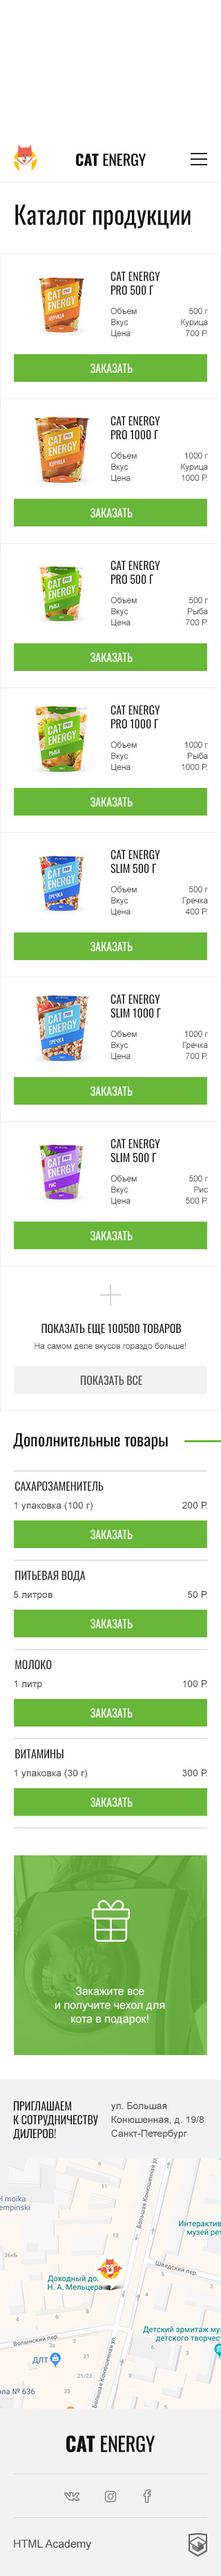
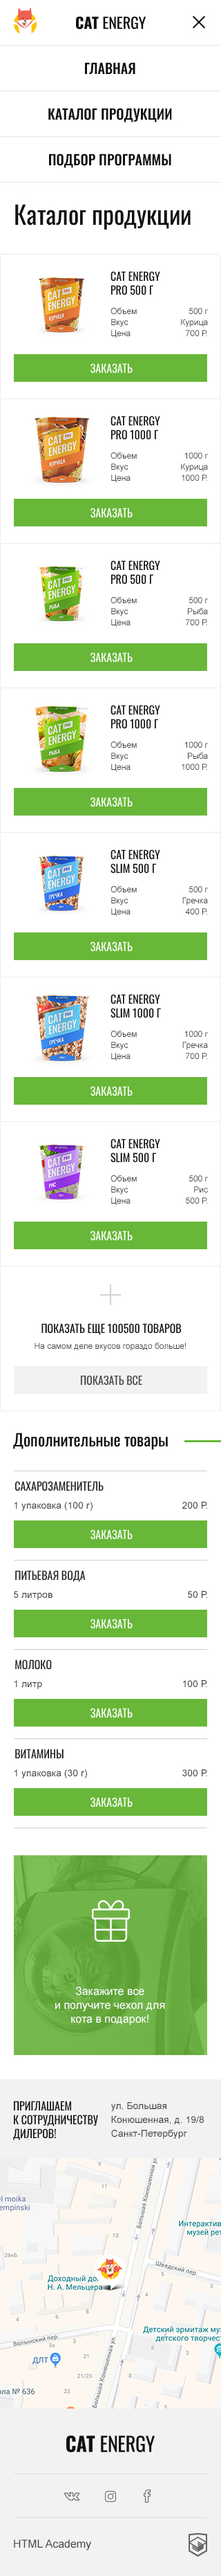
доделываем каталог планшет

Changed region(s): [[0.2188, 0.0, 0.7812, 0.0623], [0.0625, 0.0, 0.1562, 0.0934]]

diff --git a/source/catalog.html b/source/catalog.html
@@ -9,9 +9,7 @@
   </head>
   <body>
     <header class="page-header">
-      <a href="index.html" class="page-header__logo">
-        <img class="page-header__logo-image" src="img/logo-mobile.svg" width="190" height="38" alt="Логотип Cat Energy">
-      </a>
+      <a class="page-header__logo"></a>
       <nav class="main-nav main-nav--closed main-nav--nojs">
         <button class="main-nav__toggle" type="button"><span class="visually-hidden">Открыть меню</span></button>
         <ul class="main-nav__list">
@@ -31,7 +29,10 @@
       <h1>Каталог продукции</h1>
       <ul class="main-catalog__list">
         <li class="main-catalog__item product">
-          <img class="product__image product__image--pro-chicken500" src="../img/chicken-small-mobile@1x.jpg" width="140" height="144" alt="корм для котов">
+        <picture>
+          <source media="(min-width: 768px)" srcset="../img/chicken-small-tablet@1x.png">
+          <img class="product__image product__image--pro-chicken500" src="../img/chicken-small-mobile@1x.jpg" width="140" height="144"  alt="корм для котов">
+        </picture>
           <h3>cat energy pro 500 г</h3>
           <table class="product__table">
             <tr>
@@ -70,7 +71,10 @@
           <a href="order.html" class="product__link button">Заказать</a>
         </li>
         <li class="main-catalog__item product">
+        <picture>
+          <source media="(min-width: 768px)" srcset="../img/chicken-big-tablet@1x.png">
           <img class="product__image product__image--pro-chicken1000" src="../img/chicken-big-mobile@1x.jpg" width="140" height="144" alt="корм для котов">
+        </picture>
           <h3>cat energy pro 1000 г</h3>
           <table class="product__table">
             <tr>
@@ -109,7 +113,10 @@
           <a href="order.html" class="product__link button">Заказать</a>
         </li>
         <li class="main-catalog__item product">
+        <picture>
+          <source media="(min-width: 768px)" srcset="../img/fish-small-tablet@1x.png">
           <img class="product__image product__image--pro-fish500" src="../img/fish-small-mobile@1x.jpg" width="140" height="144" alt="корм для котов">
+        </picture>
           <h3>cat energy pro 500 г</h3>
           <table class="product__table">
             <tr>
@@ -148,7 +155,10 @@
           <a href="order.html" class="product__link button">Заказать</a>
         </li>
         <li class="main-catalog__item product">
+        <picture>
+          <source media="(min-width: 768px)" srcset="../img/fish-big-tablet@1x.png">
           <img class="product__image product__image--pro-fish1000" src="../img/fish-big-mobile@1x.jpg" width="140" height="144" alt="корм для котов">
+        </picture>
           <h3>cat energy pro 1000 г</h3>
           <table class="product__table">
             <tr>
@@ -187,7 +197,10 @@
           <a href="order.html" class="product__link button">Заказать</a>
         </li>
         <li class="main-catalog__item product">
+        <picture>
+          <source media="(min-width: 768px)" srcset="../img/buckwheat-small-tablet@1x.png">
           <img class="product__image product__image--slim-buckwheat500" src="../img/buckwheat-small-mobile@1x.jpg" width="140" height="144" alt="корм для котов">
+        </picture>
           <h3>cat energy slim 500 г</h3>
           <table class="product__table">
             <tr>
@@ -226,7 +239,10 @@
           <a href="order.html" class="product__link button">Заказать</a>
         </li>
         <li class="main-catalog__item product">
+        <picture>
+          <source media="(min-width: 768px)" srcset="../img/buckwheat-big-tablet@1x.png">
           <img class="product__image product__image--slim-buckwheat1000" src="../img/buckwheat-big-mobile@1x.jpg" width="140" height="144" alt="корм для котов">
+        </picture>
           <h3>cat energy slim 1000 г</h3>
           <table class="product__table">
             <tr>
@@ -265,6 +281,8 @@
           <a href="order.html" class="product__link button">Заказать</a>
         </li>
         <li class="main-catalog__item product">
+        <picture>
+          <source media="(min-width: 768px)" srcset="../img/rice-small-tablet@1x.png">
           <img class="product__image product__image--slim-rice500" src="../img/rice-small-mobile@1x.jpg" width="140" height="144" alt="корм для котов">
           <h3>cat energy slim 500 г</h3>
           <table class="product__table">

diff --git a/source/less/product.less b/source/less/product.less
@@ -10,7 +10,8 @@
   width: 323px;
   height: 429px;
   outline: 1px solid black;
-  margin-bottom: 140px;
+  margin-bottom: 142px;
+  position: relative;
   }
   .product:nth-child(7) {
   margin-bottom: 0;
@@ -27,15 +28,56 @@
   }
 }
 .product__image {
-  margin: 0;
-  padding: 0;
   outline: 1px solid red;
-  content: "";
   position: absolute;
   top: 0;
   left: 0;
-
 }
+
+@media (min-width: @tablet-width) {
+  .product__image--pro-chicken500 {
+    top: -47px;
+    width: 324px;
+    height: 172px;
+  }
+
+  .product__image--pro-chicken1000 {
+    top: -82px;
+    width: 324px;
+    height: 208px;
+  }
+
+  .product__image--pro-fish500 {
+    top: -47px;
+    width: 324px;
+    height: 174px;
+  }
+
+  .product__image--pro-fish1000 {
+    top: -82px;
+    width: 324px;
+    height: 208px;
+  }
+
+  .product__image--slim-buckwheat500 {
+    top: -44px;
+    width: 324px;
+    height: 174px;
+  }
+
+  .product__image--slim-buckwheat1000 {
+    top: -80px;
+    width: 324px;
+    height: 208px;
+  }
+
+  .product__image--slim-rice500 {
+    top: -43px;
+    width: 324px;
+    height: 174px;
+  }
+}
+
 
 .product h3 {
   margin: 0;
@@ -45,10 +87,20 @@
   text-transform: uppercase;
   font-weight: 400;
   font-size: 16px;
-  font-family: 20px;
+  line-height: 20px;
   max-width: 80px;
   color: green;
   outline: 1px solid red;
+
+  @media (min-width: @tablet-width) {
+    font-size: 20px;
+    line-height: 20px;
+    max-width: 130px;
+    margin-top: 162px;
+    margin-left: 99px;
+
+    text-align: center;
+  }
 }
 .product__table {
   font-size: 12px;
@@ -59,6 +111,15 @@
   margin-left: 140px;
 
   outline: 1px solid red;
+
+  @media (min-width: @tablet-width) {
+    margin-top: 27px;
+    margin-right: 32px;
+    margin-bottom: 37px;
+    margin-left: 35px;
+    font-size: 16px;
+    font-family: 16px;
+  }
 }
 .product__link {
   display: block;

diff --git a/source/less/product-show.less b/source/less/product-show.less
@@ -24,6 +24,14 @@
   text-transform: uppercase;
   font-size: 16px;
   line-height: 20px;
+
+  @media (min-width: @tablet-width) {
+    font-size: 20px;
+    line-height: 20px;
+    width: 170px;
+    margin-top: 83px;
+    margin-left: 74px;
+  }
 }
 .product-show p {
   margin: 0;
@@ -33,4 +41,14 @@
   text-align: center;
   font-size: 12px;
   line-height: 16px;
+
+  @media (min-width: @tablet-width) {
+    font-size: 16px;
+    line-height: 16px;
+    width: 140px;
+    margin-top: 26px;
+    margin-left: 74px;
+    outline: 1px solid red;
+    margin-bottom: 90px;
+  }
 }

diff --git a/source/less/style.less b/source/less/style.less
@@ -63,7 +63,7 @@ body {
 
   min-width: 320px;
 
-  background: url("../img/substrate/cat-energy-index-mobile.jpg")  no-repeat 50% 0;
+  background: url("../img/substrate/cat-energy-catalog-mobile.jpg")  no-repeat 50% 0;
   background-size: 320px auto;
   outline: 1px solid red;
 }
@@ -77,7 +77,7 @@ img {
 
 @media (min-width: @tablet-width) {
   body {
-    background: url("../img/substrate/cat-energy-idex-tablet.jpg") no-repeat 50% 0;
+    background: url("../img/substrate/cat-energy-catalog-tablet.jpg") no-repeat 50% 0;
     background-size: 768px auto;
   }
 }

diff --git a/source/form.html b/source/form.html
@@ -10,9 +10,7 @@
   </head>
   <body>
     <header class="page-header">
-      <a href="index.html" class="page-header__logo">
-        <img class="page-header__logo-image" src="img/logo-mobile.svg" width="190" height="38" alt="Логотип Cat Energy">
-      </a>
+      <a class="page-header__logo"></a>
       <nav class="main-nav main-nav--closed main-nav--nojs">
         <button class="main-nav__toggle" type="button"><span class="visually-hidden">Открыть меню</span></button>
         <ul class="main-nav__list">

diff --git a/source/less/main-nav.less b/source/less/main-nav.less
@@ -80,8 +80,13 @@
     margin-top: 49px;
   }
 }
-
-  @media (min-width: @desktop-width) {
+@media (min-width: @tablet-width) {
+   .main-nav__link--active {
+    border-bottom: 2px solid @bg-green;
+    padding-bottom: 7px;
+  }
+}
+@media (min-width: @desktop-width) {
   .main-nav__item a {
     font-size: 20px;
     line-height: 25px;
